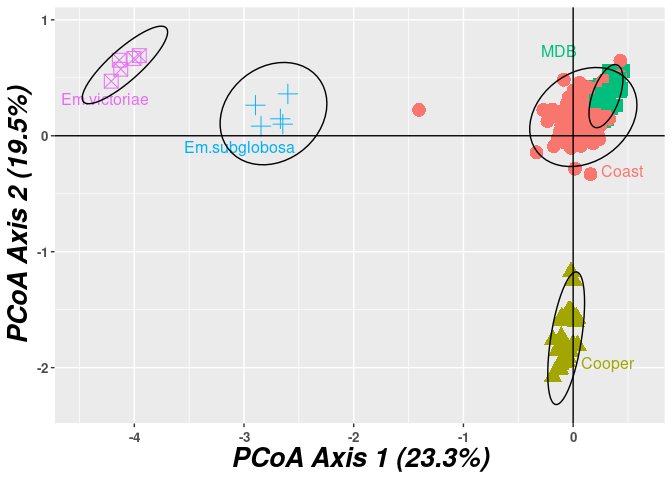
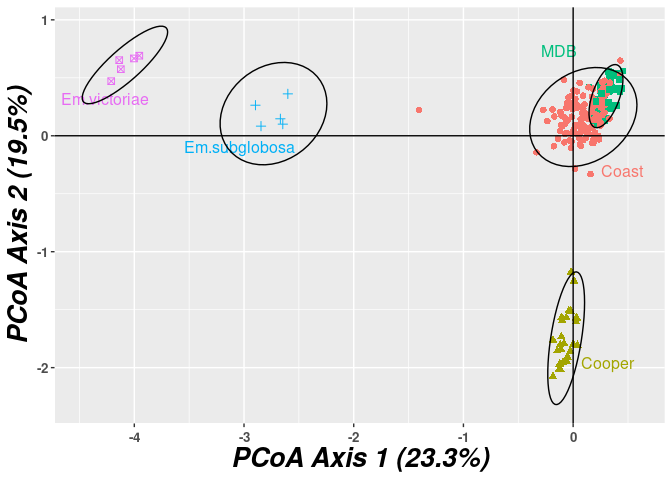
fix size in mod example

diff --git a/README.md b/README.md
@@ -139,7 +139,7 @@ controls the points with one that has a shape aesthetic:
 
 ``` r
 xb$points <- as_plotter(plotfun = "ggplot2::geom_point",
-                        plotargs = list(mapping = aes_string(shape = "pop", size = 2)))
+                        plotargs = list(mapping = aes_string(shape = "pop"), size = 2))
 ```
 
 And now draw the modified plot:
